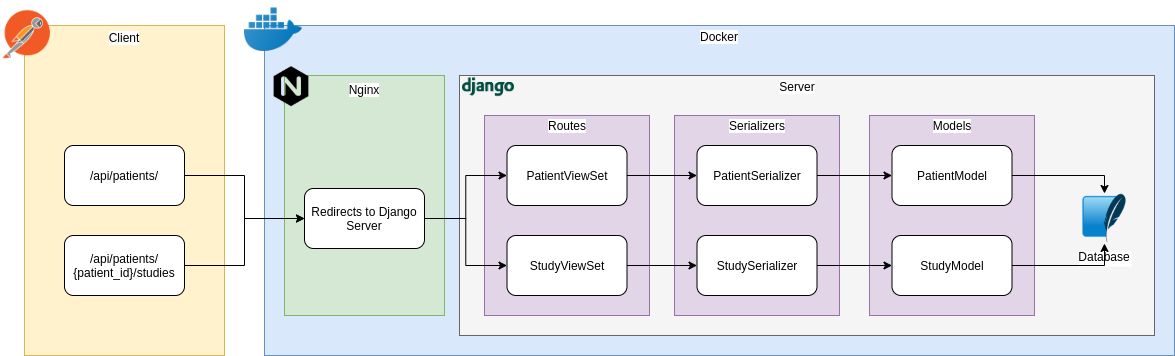
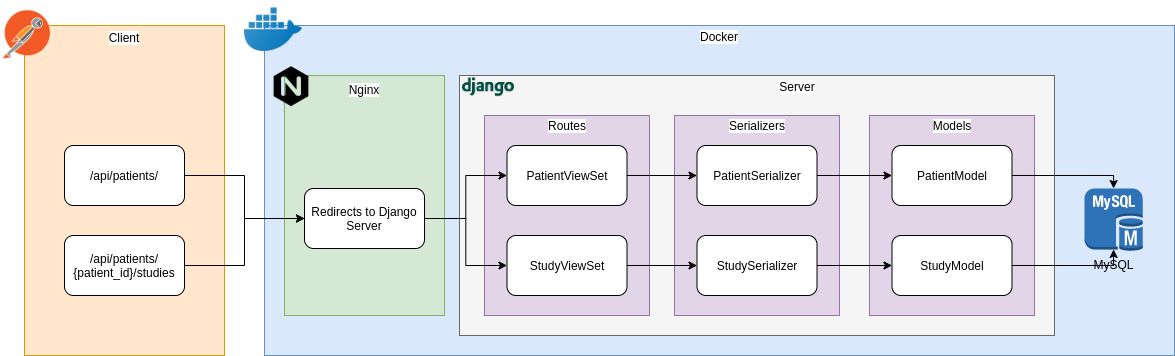
feat(db): Add MySQL database

Changed region(s): [[0.8885, 0.1854, 1.0, 0.9579], [0.0, 0.9888, 0.1838, 1.0]]

diff --git a/app/settings.py b/app/settings.py
@@ -26,6 +26,13 @@ BASE_DIR = Path(__file__).resolve().parent.parent
 # SECURITY WARNING: keep the secret key used in production secret!
 SECRET_KEY = env["SECRET_KEY"]
 
+# Database connection data
+DB_NAME = env["DB_NAME"]
+DB_USER = env["DB_USER"]
+DB_PASS = env["DB_PASS"]
+DB_HOST = env["DB_HOST"]
+DB_PORT = env["DB_PORT"]
+
 # SECURITY WARNING: don't run with debug turned on in production!
 DEBUG = True
 
@@ -82,8 +89,12 @@ WSGI_APPLICATION = "app.wsgi.application"
 
 DATABASES = {
     "default": {
-        "ENGINE": "django.db.backends.sqlite3",
-        "NAME": BASE_DIR / "db.sqlite3",
+        "ENGINE": "django.db.backends.mysql",
+        "NAME": DB_NAME,
+        "USER": DB_USER,
+        "PASSWORD": DB_PASS,
+        "HOST": DB_HOST,
+        "PORT": DB_PORT,
     }
 }
 

diff --git a/README.md b/README.md
@@ -76,16 +76,25 @@ As we said before, it can take you a couple of hours or a day.
 
 | Command                  | Description                                                                    |
 | ------------------------ | ------------------------------------------------------------------------------ |
-| `make start`             | This will create the Django models, migrate, and up the containers             |
+| `make up`                | This will up all the containers                                                |
+| `make migrate`           | Make Django migrations (makemigrations, migrate command)                       |
+| `make db-populate`       | Insert the initial data to the models                                          |
 | `make install-local`     | This will install dependencies for local development (pipenv and the packages) |
 | `make lint-fix`          | Fix the lint errors (run `isort`, `autoflake`, and `black`)                    |
 | `make requirements`      | Create a `requirements.txt` file from `Pipfile`                                |
 | `make tests`             | Run the tests                                                                  |
 | `make coverage-report`   | Check the tests code coverage                                                  |
-| `make migrate`           | Make Django migrations (makemigrations, migrate command)                       |
 | `make create-superuser`  | Create Django superuser                                                        |
 | `make stop-containers`   | Stop project containers (back-challenge-api, back-challenge-proxy)             |
 | `make remove-containers` | Remove project containers (back-challenge-api, back-challenge-proxy)           |
+
+### First execution
+
+1. Up all the containers in one Terminal tab with `make up`.
+2. In another Terminal tab create the models in the database with `make migrate`
+3. Finally populate the tables with the example data: `make db-populate`
+
+The next time you will only use the `make up` command to turn on the containers.
 
 ## Architecture
 
@@ -133,7 +142,7 @@ Aditional used packages:
 
 ## TODOs
 
--   Change the Database from SQLite to a more robust one (MariaDB, PostgreSQL, SQL Server, etc)
+-   ✅ Change the Database from SQLite to a more robust one (MariaDB, PostgreSQL, SQL Server, etc)
 -   Use OpenAPI to build the docs easily.
 -   Deploy the project online (DigitalOcean, Heroku, AWS...)
 -   Add authentication and authorization for every exposed endpoint
